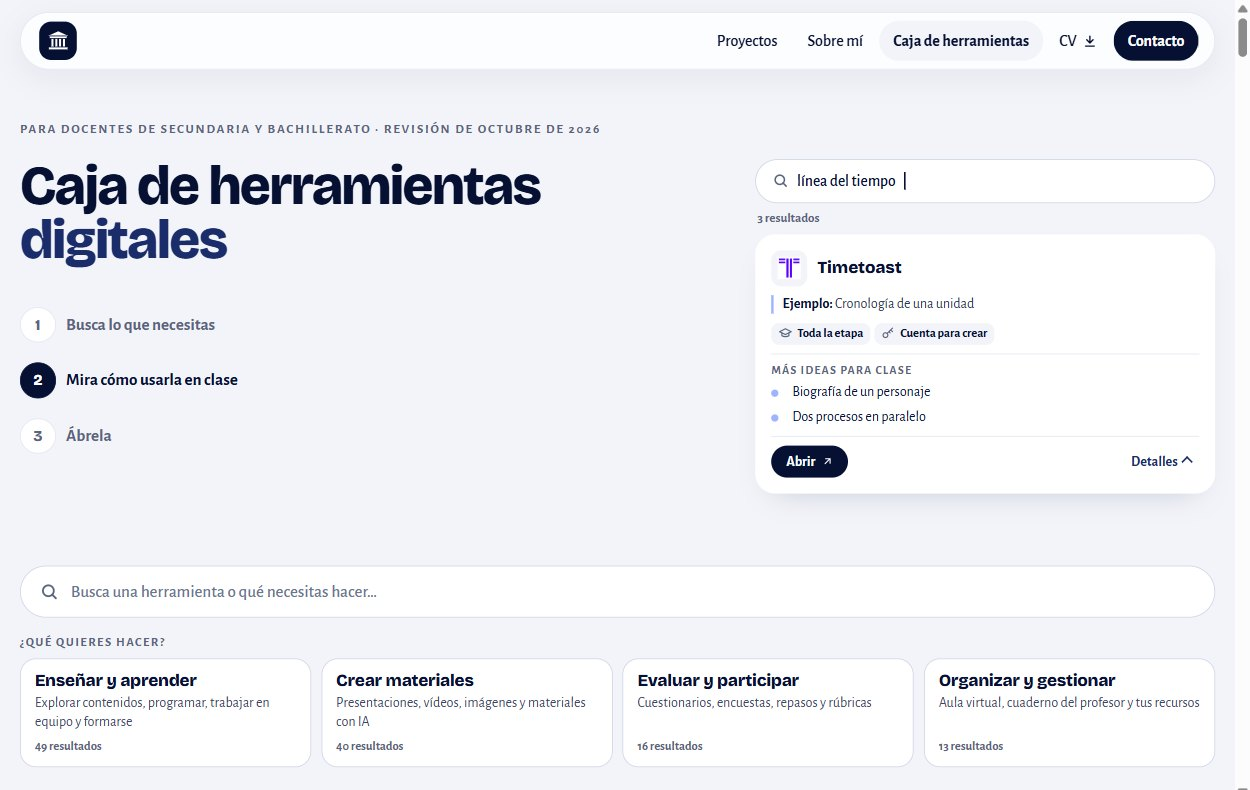
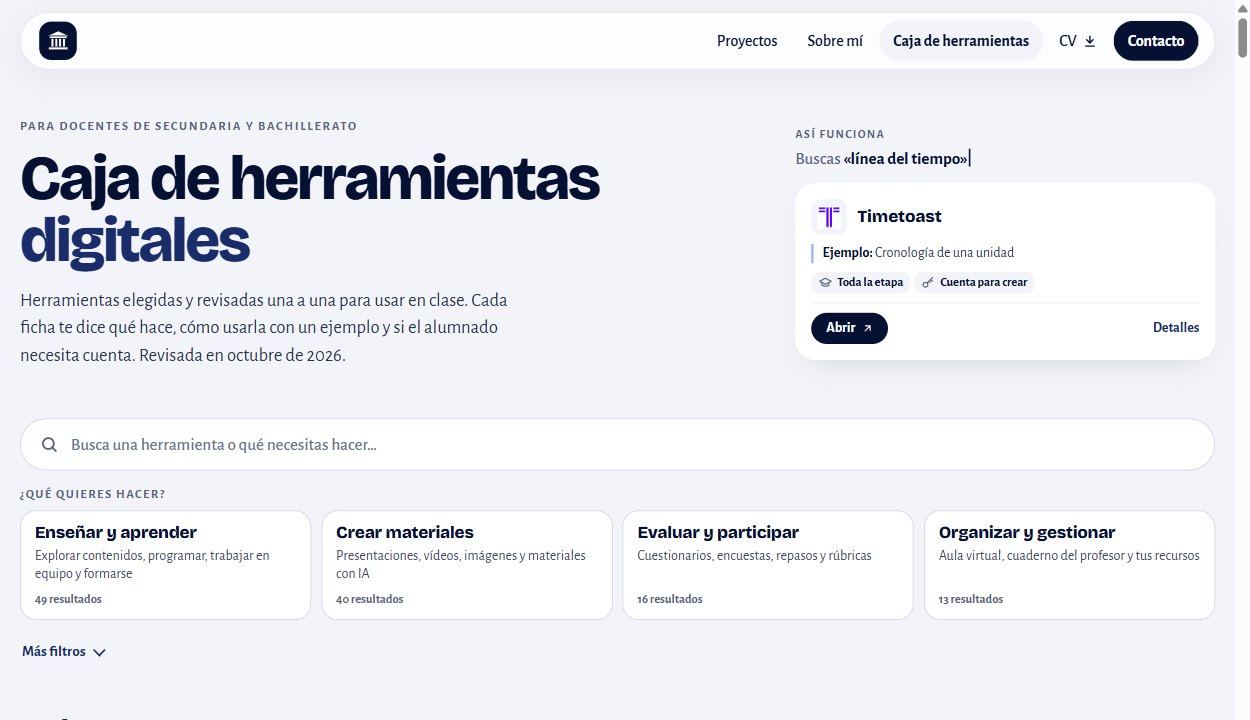
Caja de herramientas: hero rediseñado con jerarquía clara
- Título dominante, etiqueta corta y descripción breve visible.
- Ejemplo «Así funciona» simplificado: la búsqueda como texto (no imita el buscador real) y una ficha; sin pasos ni detalles.
- Columnas centradas entre sí y buscador real más cerca del hero.
- En móvil: título, descripción, ejemplo reducido y buscador.
- Captura de la portada actualizada en el Repositorio digital.

diff --git a/herramientas/index.html b/herramientas/index.html
@@ -112,30 +112,24 @@ footer a{font-weight:700}
 @media (max-width:780px){.bar nav a.nav-key{display:inline-flex}.bar nav{gap:4px}.bar nav a{padding:8px 12px}.bar nav a.cv{display:none}}
 @media (max-width:440px){.bar nav a{padding:8px 10px;font-size:15px}}
 /* cabecera breve */
-.head{margin-top:52px}
-.head h1{font:800 clamp(34px,4.4vw,56px)/1 var(--f-disp);letter-spacing:-.03em;margin-top:10px}
+/* cabecera: el título manda; a la derecha, un ejemplo de búsqueda (no es un buscador) */
+.head{margin-top:48px;display:grid;grid-template-columns:minmax(0,1fr) minmax(0,420px);gap:32px 64px;align-items:center}
+.head-t .lab{display:block;font-size:12.5px;line-height:1.5}
+.head h1{font:800 clamp(38px,5vw,64px)/.98 var(--f-disp);letter-spacing:-.035em;margin-top:12px}
 .head h1 span{color:var(--navy3)}
-.head{display:grid;grid-template-columns:minmax(0,1fr) minmax(0,460px);gap:28px 56px;align-items:start}
-/* la etiqueta va sola arriba; debajo, el título y la animación empiezan a la misma altura */
-.head-l{grid-column:1/-1;margin-bottom:-6px}
-.head-t h1{margin-top:0}
-/* pasos a la izquierda, bajo el título: se marcan al ritmo de la animación */
-.d-steps{list-style:none;padding:0;margin-top:30px;display:grid;gap:4px;max-width:360px;counter-reset:d}
-.d-steps li{counter-increment:d;display:grid;grid-template-columns:34px 1fr;gap:12px;align-items:center;font:700 17px/1.25 var(--f-body);color:var(--mut);padding:8px 0;transition:color .3s}
-.d-steps li::before{content:counter(d);width:34px;height:34px;border-radius:50%;display:grid;place-items:center;font:800 15px var(--f-disp);background:#fff;color:var(--mut);border:1px solid var(--line);transition:background .3s,color .3s,border-color .3s}
-.head[data-s="1"] .d-steps li:nth-child(1),.head[data-s="2"] .d-steps li:nth-child(2),.head[data-s="3"] .d-steps li:nth-child(3){color:var(--navy)}
-.head[data-s="1"] .d-steps li:nth-child(1)::before,.head[data-s="2"] .d-steps li:nth-child(2)::before,.head[data-s="3"] .d-steps li:nth-child(3)::before{background:var(--navy);border-color:var(--navy);color:#fff}
-/* demostración: sin marco, sobre el mismo fondo que el título */
+.head-p{font-size:clamp(16.5px,1.5vw,18.5px);line-height:1.5;color:#2A3352;margin-top:16px;max-width:52ch}
 .demo{position:relative}
-.d-search{display:flex;align-items:center;gap:8px;height:44px;padding:0 16px;background:#fff;border:1px solid #CDD5E5;border-radius:999px;font:500 15.5px var(--f-body);color:var(--txt)}
-.d-search svg{width:17px;height:17px;stroke:var(--mut);fill:none;stroke-width:2.2;stroke-linecap:round;flex:none}
-.d-q{white-space:nowrap;overflow:hidden}
-.d-caret{width:2px;height:18px;background:var(--navy);animation:blink 1s steps(1) infinite}
+.demo[hidden]{display:none}
+.d-top{display:flex;align-items:center;justify-content:space-between;gap:10px;margin-bottom:6px}
+.d-cap{font:700 12px var(--f-body);letter-spacing:.12em;text-transform:uppercase;color:var(--mut)}
+.d-ql{font:500 17px/1.3 var(--f-body);color:var(--mut);margin-bottom:12px;min-height:23px;white-space:nowrap;overflow:hidden}
+.d-ql b{color:var(--navy);font-weight:700}
+#d-q:not(:empty)::before{content:"«"}
+#d-q:not(:empty)::after{content:"»"}
+.d-caret{display:inline-block;width:2px;height:17px;background:var(--navy);margin-left:1px;vertical-align:-2px;animation:blink 1s steps(1) infinite}
 @keyframes blink{50%{opacity:0}}
-.d-row{display:flex;align-items:center;justify-content:space-between;gap:8px;margin:8px 2px}
-.d-n{font:700 13px var(--f-body);color:var(--mut);opacity:0;transition:opacity .3s}
-.d-card{background:#fff;border-radius:20px;padding:16px;display:grid;gap:9px;opacity:.35;filter:saturate(0);transform:translateY(6px);transition:opacity .45s,transform .45s,filter .45s;box-shadow:0 14px 30px -18px rgba(6,16,51,.22)}
-.head[data-s="2"] .d-n,.head[data-s="3"] .d-n,.head[data-s="2"] .d-card,.head[data-s="3"] .d-card{opacity:1;filter:none;transform:none}
+.d-card{background:#fff;border-radius:20px;padding:16px;display:grid;gap:9px;box-shadow:0 14px 30px -18px rgba(6,16,51,.22);opacity:.35;filter:saturate(0);transform:translateY(6px);transition:opacity .45s,transform .45s,filter .45s}
+.head[data-s="2"] .d-card,.head[data-s="3"] .d-card{opacity:1;filter:none;transform:none}
 .d-card .tool-h{grid-template-columns:36px minmax(0,1fr);gap:10px}
 .d-card .lg{width:36px;height:36px;border-radius:10px}
 .d-card .lg img{width:23px;height:23px}
@@ -144,31 +138,21 @@ footer a{font-weight:700}
 .d-card .ex b{color:var(--navy)}
 .d-card .facts{gap:4px}
 .d-card .fact{font-size:12.5px;padding:3px 7px}
-.d-card .more-b{display:none}
-.d-card.open .more-b{display:grid;animation:dIn .35s ease-out}
-@keyframes dIn{from{opacity:0;transform:translateY(-4px)}}
-.d-card .more-b li{font-size:14px}
 .d-foot{display:flex;align-items:center;justify-content:space-between;padding-top:9px;border-top:1px solid var(--line)}
 .d-open{display:inline-flex;align-items:center;gap:6px;font:700 14px var(--f-body);color:#fff;background:var(--navy);border-radius:999px;padding:7px 15px;transition:transform .3s,box-shadow .3s}
-.d-open svg,.d-det svg{width:12px;height:12px;stroke:currentColor;fill:none;stroke-width:2.2;stroke-linecap:round;stroke-linejoin:round}
-.d-det{display:inline-flex;align-items:center;gap:6px;font:700 14px var(--f-body);color:var(--navy3);padding:5px 8px;border-radius:999px;transition:background .3s,box-shadow .3s}
-.d-det::after{content:"";width:6px;height:6px;border-right:2px solid currentColor;border-bottom:2px solid currentColor;transform:rotate(45deg) translateY(-2px);transition:transform .25s}
-.d-card.press .d-det{background:var(--ice);box-shadow:0 0 0 4px rgba(159,179,255,.45)}
-.d-card.open .d-det::after{transform:rotate(-135deg) translateY(-1px)}
+.d-open svg{width:12px;height:12px;stroke:currentColor;fill:none;stroke-width:2.2;stroke-linecap:round;stroke-linejoin:round}
+.d-det{font:700 14px var(--f-body);color:var(--navy3)}
 .head[data-s="3"] .d-open{transform:scale(1.06);box-shadow:0 0 0 5px rgba(159,179,255,.55)}
-.d-pause{flex:none;width:32px;height:32px;border-radius:50%;border:1px solid var(--line);background:#fff;display:grid;place-items:center;cursor:pointer}
-.d-pause svg{width:11px;height:11px;fill:var(--navy)}
+.d-pause{flex:none;width:30px;height:30px;border-radius:50%;border:1px solid var(--line);background:#fff;display:grid;place-items:center;cursor:pointer}
+.d-pause svg{width:10px;height:10px;fill:var(--navy)}
 .d-pause[hidden]{display:none}
-@media (max-width:900px){.head{grid-template-columns:1fr;gap:20px}.demo{max-width:520px}
- .d-steps{grid-template-columns:repeat(3,minmax(0,1fr));max-width:520px;margin-top:20px;gap:8px}
- .d-steps li{grid-template-columns:1fr;gap:6px;font-size:13.5px;align-items:start;padding:0}
- .d-steps li::before{width:28px;height:28px;font-size:13px}}
-@media (max-width:560px){.d-card .ex{display:none}}
-@media (prefers-reduced-motion:reduce){.d-card,.d-n,.d-steps li,.d-steps li::before,.d-open,.d-det,.d-det::after{transition:none}.d-card.open .more-b{animation:none}.d-caret{animation:none}}
+@media (max-width:900px){.head{grid-template-columns:1fr;gap:28px;margin-top:36px}.demo{max-width:460px}}
+@media (max-width:560px){.d-card .ex,.d-foot{display:none}.d-card{padding:14px}.d-ql{font-size:16px;margin-bottom:10px}}
+@media (prefers-reduced-motion:reduce){.d-card,.d-open{transition:none}.d-caret{animation:none}}
 
 /* buscador: primer nivel = búsqueda + «¿Qué quieres hacer?» */
-.finder{margin-top:72px}
-@media (max-width:640px){.finder{margin-top:48px}}
+.finder{margin-top:48px}
+@media (max-width:640px){.finder{margin-top:32px}}
 .search{display:flex;align-items:center;gap:10px;background:#fff;border:1px solid #CDD5E5;border-radius:999px;padding:0 6px 0 18px;height:52px}
 .search:focus-within{border-color:var(--navy);box-shadow:0 0 0 3px rgba(159,179,255,.45)}
 .search>svg{width:20px;height:20px;stroke:var(--mut);fill:none;stroke-width:2.2;stroke-linecap:round;flex:none}
@@ -404,15 +388,14 @@ body.mini-on .top{transform:translateY(-140%)}
 
 <main>
  <section class="head" id="hero" data-s="1" aria-labelledby="ph1">
-  <span class="lab head-l">Para docentes de Secundaria y Bachillerato · Revisión de octubre de 2026</span>
   <div class="head-t">
+   <span class="lab">Para docentes de Secundaria y Bachillerato</span>
    <h1 id="ph1">Caja de herramientas <span>digitales</span></h1>
-   <p class="sr">Herramientas y recursos elegidos y comprobados. Busca lo que necesitas, mira cómo usarlo en clase con un ejemplo y ábrelo.</p>
-   <ol class="d-steps" aria-hidden="true"><li>Busca lo que necesitas</li><li>Mira cómo usarla en clase</li><li>Ábrela</li></ol>
+   <p class="head-p">Herramientas elegidas y revisadas una a una para usar en clase. Cada ficha te dice qué hace, cómo usarla con un ejemplo y si el alumnado necesita cuenta. Revisada en octubre de 2026.</p>
   </div>
-  <div class="demo" id="demo">
-   <div class="d-search" aria-hidden="true"><svg viewBox="0 0 24 24"><circle cx="11" cy="11" r="6.5"/><path d="m20 20-4.4-4.4"/></svg><span class="d-q" id="d-q"></span><span class="d-caret"></span></div>
-   <div class="d-row"><p class="d-n" id="d-n" aria-hidden="true"></p><button type="button" class="d-pause" id="d-pause" aria-label="Pausar la animación" hidden></button></div>
+  <div class="demo" id="demo" hidden>
+   <div class="d-top"><span class="d-cap" aria-hidden="true">Así funciona</span><button type="button" class="d-pause" id="d-pause" aria-label="Pausar la animación" hidden></button></div>
+   <p class="d-ql" aria-hidden="true">Buscas <b id="d-q"></b><span class="d-caret"></span></p>
    <div class="d-card" id="d-card" aria-hidden="true"></div>
   </div>
  </section>
@@ -721,41 +704,34 @@ $('changes').innerHTML=CHANGES.slice(0,-1).map(c=>{
 }).join('');
 $('chnew').innerHTML=`<div><span class="lab">Novedad</span><h3>${esc(last.n)}</h3><p>${esc(last.what)}</p></div><div class="alt"><b>Qué hacer</b><p>${esc(last.alt)}</p></div>`;
 
-// ---------- demostración del hero: búsquedas reales y la primera ficha que devuelve el propio buscador
+// ---------- ejemplo del hero: búsquedas reales y la primera ficha que devuelve el propio buscador
 (()=>{
- const H=$('hero'),D=$('demo'),Q=$('d-q'),N=$('d-n'),C=$('d-card'),B=$('d-pause');
- const scenes=['línea del tiempo','cuestionario','geometría','programar'].map(q=>{const r=TOOLS.filter(t=>t.s!=='recursos'&&match(t,query(q)));return r.length?{q,n:r.length,t:r[0]}:null}).filter(Boolean);
- if(!scenes.length){D.hidden=true;return;}
+ const H=$('hero'),D=$('demo'),Q=$('d-q'),C=$('d-card'),B=$('d-pause');
+ const scenes=['línea del tiempo','cuestionario','geometría','programar'].map(q=>{const r=TOOLS.filter(t=>t.s!=='recursos'&&match(t,query(q)));return r.length?{q,t:r[0]}:null}).filter(Boolean);
+ if(!scenes.length)return;
+ D.hidden=false;
  const draw=sc=>{const t=sc.t,aula=t.s==='aula',m=t.n.match(/^(.+?)\s*\((.+)\)$/);
   const facts=aula?fact(I.cap,t.c)+fact(I.key,t.cta,/^no necesita/i.test(t.cta)?'ok':''):fact(I.eur,t.coste,/gratu|incluido|sin coste/i.test(t.coste)?'ok':'');
-  C.className='d-card';
-  C.innerHTML=`<div class="tool-h"><span class="lg">${logo(t)}</span><h4>${esc(m?m[1]:t.n)}</h4></div><p class="ex"><b>Ejemplo:</b> ${esc(t.i[0])}</p><div class="facts">${facts}</div>
-   <div class="more-b"><div><h5>${aula?'Más ideas para clase':'Más ideas de uso'}</h5><ul>${t.i.slice(1).map(x=>`<li>${esc(x)}</li>`).join('')}</ul></div></div>
-   <div class="d-foot"><span class="d-open">Abrir ${I.ext}</span><span class="d-det">Detalles</span></div>`;};
- // se reserva la altura de la ficha más alta con los detalles abiertos, para que la página no salte
- const reserve=()=>{D.style.minHeight='';const keep=[H.dataset.s,C.className,C.innerHTML];let mx=0;
-  scenes.forEach(sc=>{draw(sc);C.className='d-card open';mx=Math.max(mx,D.offsetHeight);});
-  [H.dataset.s,C.className,C.innerHTML]=keep;D.style.minHeight=mx+'px';};
- const result=sc=>{N.textContent=`${sc.n} ${sc.n===1?'resultado':'resultados'}`;draw(sc);};
+  C.innerHTML=`<div class="tool-h"><span class="lg">${logo(t)}</span><h4>${esc(m?m[1]:t.n)}</h4></div><p class="ex"><b>Ejemplo:</b> ${esc(t.i[0])}</p><div class="facts">${facts}</div><div class="d-foot"><span class="d-open">Abrir ${I.ext}</span><span class="d-det">Detalles</span></div>`;};
+ // se reserva la altura de la ficha más alta, para que la página no salte al cambiar de ejemplo
+ const reserve=()=>{C.style.minHeight='';const keep=C.innerHTML;let mx=0;scenes.forEach(sc=>{draw(sc);mx=Math.max(mx,C.offsetHeight);});C.innerHTML=keep;C.style.minHeight=mx+'px';};
  const still=matchMedia('(prefers-reduced-motion: reduce)');
  let i=0,timers=[],paused=false,seen=true;
  const clear=()=>{timers.forEach(clearTimeout);timers=[];};
  const at=(ms,f)=>timers.push(setTimeout(f,ms));
- const play=()=>{clear();const sc=scenes[i%scenes.length];H.dataset.s='1';Q.textContent='';C.classList.remove('open');
+ const play=()=>{clear();const sc=scenes[i%scenes.length];H.dataset.s='1';Q.textContent='';
   [...sc.q].forEach((ch,k)=>at(400+k*75,()=>{Q.textContent+=ch}));
-  const t0=400+sc.q.length*75+350;
-  at(t0,()=>{result(sc);H.dataset.s='2'});
-  at(t0+1500,()=>{C.classList.add('press')});
-  at(t0+1800,()=>{C.classList.remove('press');C.classList.add('open')});
-  at(t0+4600,()=>{H.dataset.s='3'});
-  at(t0+6200,()=>{i++;if(!paused&&seen)play();});};
- const showStill=()=>{clear();const sc=scenes[0];result(sc);Q.textContent=sc.q;C.className='d-card open';H.dataset.s='2';};
+  const t0=400+sc.q.length*75+300;
+  at(t0,()=>{draw(sc);H.dataset.s='2'});
+  at(t0+2600,()=>{H.dataset.s='3'});
+  at(t0+4200,()=>{i++;if(!paused&&seen)play();});};
+ const showStill=()=>{clear();const sc=scenes[0];draw(sc);Q.textContent=sc.q;H.dataset.s='2';};
  const icon=p=>p?'<svg viewBox="0 0 24 24" aria-hidden="true"><path d="M7 5v14l12-7z"/></svg>':'<svg viewBox="0 0 24 24" aria-hidden="true"><rect x="6" y="5" width="4" height="14" rx="1"/><rect x="14" y="5" width="4" height="14" rx="1"/></svg>';
  const setPause=p=>{paused=p;B.innerHTML=icon(p);B.setAttribute('aria-label',p?'Reanudar la animación':'Pausar la animación');if(p)clear();else play();};
  const start=()=>{if(still.matches){B.hidden=true;showStill();}else{B.hidden=false;paused=false;B.innerHTML=icon(false);play();}};
  B.addEventListener('click',()=>setPause(!paused));
  still.addEventListener('change',start);
- reserve();draw(scenes[0]);
+ draw(scenes[0]);reserve();
  let rz;addEventListener('resize',()=>{clearTimeout(rz);rz=setTimeout(reserve,200)});
  if(document.fonts)document.fonts.ready.then(reserve);
  // fuera de la pantalla o con la pestaña oculta, se detiene

diff --git a/proyectos/repositorio-digital/index.html b/proyectos/repositorio-digital/index.html
@@ -72,7 +72,7 @@
 <figure><a href="/assets/proyectos/repositorio-digital/inicio-2024.jpg" target="_blank" rel="noopener" aria-label="Ver la imagen a tamaño completo: Portada del repositorio en Google Sites: menú por etapas (Infantil, Primaria, Secundaria y Bachillerato, Apoyo docente, Recursos) y los objetivos del repositorio"><img src="/assets/proyectos/repositorio-digital/inicio-2024.jpg" alt="Portada del repositorio en Google Sites: menú por etapas (Infantil, Primaria, Secundaria y Bachillerato, Apoyo docente, Recursos) y los objetivos del repositorio" loading="lazy" decoding="async" width="1200" height="750"></a><figcaption>La portada, con el menú por etapas.</figcaption></figure></div>
 <div class="ver ver-new"><span class="ver-y">2026</span><h3>La caja de herramientas</h3>
 <ul class="ver-l"><li>Web propia, pensada para Secundaria.</li><li>Herramientas digitales para el aula y el docente. Recursos disponibles.</li><li>Se busca por lo que necesitas hacer: enseñar, crear materiales, evaluar u organizar.</li><li>Filtros secundarios por tipo de recurso y por materia.</li><li>Revisada una a una en octubre de 2026.</li><li>Lo que ha cerrado, su alternativa y la IA con cuenta de centro.</li></ul>
-<figure><a href="/assets/proyectos/repositorio-digital/caja-2026.jpg?v=6" target="_blank" rel="noopener" aria-label="Ver la imagen a tamaño completo: Portada de la Caja de herramientas digitales: a la izquierda el título y tres pasos (busca, mira cómo usarla en clase, ábrela); a la derecha una animación con una búsqueda («línea del tiempo») y la ficha de Timetoast con los detalles abiertos; debajo, el buscador, la pregunta «¿Qué quieres hacer?» con cuatro objetivos y «Más filtros»"><img src="/assets/proyectos/repositorio-digital/caja-2026.jpg?v=6" alt="Portada de la Caja de herramientas digitales: a la izquierda el título y tres pasos (busca, mira cómo usarla en clase, ábrela); a la derecha una animación con una búsqueda («línea del tiempo») y la ficha de Timetoast con los detalles abiertos; debajo, el buscador, la pregunta «¿Qué quieres hacer?» con cuatro objetivos y «Más filtros»" loading="lazy" decoding="async" width="1250" height="790"></a><figcaption>La portada: animación de cómo se usa, buscador y «¿Qué quieres hacer?».</figcaption></figure></div>
+<figure><a href="/assets/proyectos/repositorio-digital/caja-2026.jpg?v=7" target="_blank" rel="noopener" aria-label="Ver la imagen a tamaño completo: Portada de la Caja de herramientas digitales: a la izquierda el título y una descripción breve; a la derecha, «Así funciona», un ejemplo de búsqueda («línea del tiempo») con la ficha de Timetoast que devuelve; debajo, el buscador, la pregunta «¿Qué quieres hacer?» con cuatro objetivos y «Más filtros»"><img src="/assets/proyectos/repositorio-digital/caja-2026.jpg?v=7" alt="Portada de la Caja de herramientas digitales: a la izquierda el título y una descripción breve; a la derecha, «Así funciona», un ejemplo de búsqueda («línea del tiempo») con la ficha de Timetoast que devuelve; debajo, el buscador, la pregunta «¿Qué quieres hacer?» con cuatro objetivos y «Más filtros»" loading="lazy" decoding="async" width="1250" height="720"></a><figcaption>La portada: título, ejemplo de búsqueda, buscador y «¿Qué quieres hacer?».</figcaption></figure></div>
 </div>
 <div class="ficha-new">
 <div><span class="ver-y">2026</span><h3>La misma ficha, dos años después</h3><p>StopMotion sigue, pero la ficha cambia: dice qué hace el alumnado, da ideas para clase y aclara nivel, dispositivos y si hace falta cuenta.</p></div>

diff --git a/_build/data.py b/_build/data.py
@@ -351,7 +351,7 @@ FIG:/assets/proyectos/repositorio-digital/ficha-2024.jpg?v=2|Ficha de StopMotion
 FIG:/assets/proyectos/repositorio-digital/inicio-2024.jpg|Portada del repositorio en Google Sites: menú por etapas (Infantil, Primaria, Secundaria y Bachillerato, Apoyo docente, Recursos) y los objetivos del repositorio|La portada, con el menú por etapas.</div>
 <div class="ver ver-new"><span class="ver-y">2026</span><h3>La caja de herramientas</h3>
 <ul class="ver-l"><li>Web propia, pensada para Secundaria.</li><li>Herramientas digitales para el aula y el docente. Recursos disponibles.</li><li>Se busca por lo que necesitas hacer: enseñar, crear materiales, evaluar u organizar.</li><li>Filtros secundarios por tipo de recurso y por materia.</li><li>Revisada una a una en octubre de 2026.</li><li>Lo que ha cerrado, su alternativa y la IA con cuenta de centro.</li></ul>
-FIG:/assets/proyectos/repositorio-digital/caja-2026.jpg?v=6|Portada de la Caja de herramientas digitales: a la izquierda el título y tres pasos (busca, mira cómo usarla en clase, ábrela); a la derecha una animación con una búsqueda («línea del tiempo») y la ficha de Timetoast con los detalles abiertos; debajo, el buscador, la pregunta «¿Qué quieres hacer?» con cuatro objetivos y «Más filtros»|La portada: animación de cómo se usa, buscador y «¿Qué quieres hacer?».</div>
+FIG:/assets/proyectos/repositorio-digital/caja-2026.jpg?v=7|Portada de la Caja de herramientas digitales: a la izquierda el título y una descripción breve; a la derecha, «Así funciona», un ejemplo de búsqueda («línea del tiempo») con la ficha de Timetoast que devuelve; debajo, el buscador, la pregunta «¿Qué quieres hacer?» con cuatro objetivos y «Más filtros»|La portada: título, ejemplo de búsqueda, buscador y «¿Qué quieres hacer?».</div>
 </div>
 <div class="ficha-new">
 <div><span class="ver-y">2026</span><h3>La misma ficha, dos años después</h3><p>StopMotion sigue, pero la ficha cambia: dice qué hace el alumnado, da ideas para clase y aclara nivel, dispositivos y si hace falta cuenta.</p></div>

diff --git a/CLAUDE.md b/CLAUDE.md
@@ -21,9 +21,10 @@ Cada push a `main` se publica solo en 1-2 minutos. El Consejo de Clío vive en o
   al bajar, barra fina fija con el mismo aspecto que la barra del menú pegada (logo, buscador + «Filtros») (aparece al pasar el buscador). Si `tools.js` falla, aviso con reintento.
   Antes: (2) «¿Qué quieres hacer?» = `TASKS`, cuatro objetivos
   (Enseñar y aprender, Crear materiales, Evaluar y participar, Organizar y gestionar); cada herramienta cae en uno solo según
-  su categoría (`s:cat`); siempre visibles, desactivados si no tienen resultados; (3) recuento + filtros activos (solo cuando hay alguno; sin filtros no se muestra el total). Hero sin texto: título + tres pasos a la izquierda y animación
-  `#demo` (sin marco) que escribe búsquedas reales, muestra la primera ficha que devuelve el buscador y abre sus Detalles (con pausa; quieta con movimiento
-  reducido; se detiene fuera de pantalla). Espacios: 80px entre categorías, 120px entre secciones. Fichas compactas:
+  su categoría (`s:cat`); siempre visibles, desactivados si no tienen resultados; (3) recuento + filtros activos (solo cuando hay alguno; sin filtros no se muestra el total). Hero: a la izquierda etiqueta corta, título dominante y
+  descripción breve (`.head-p`); a la derecha `#demo` «Así funciona»: «Buscas «…»» como texto (no es un buscador, para no
+  duplicar el real) y la primera ficha que devuelve el buscador (sin pasos ni detalles; con pausa; quieta con movimiento
+  reducido; se detiene fuera de pantalla; oculta sin JavaScript). En móvil: título, descripción, ejemplo reducido, buscador. Espacios: 80px entre categorías, 120px entre secciones. Fichas compactas:
   frase de uso + primer ejemplo (`i[0]`) + etiquetas; el resto va en «Detalles». Las etiquetas salen solo de los datos.
   Lo que ha cerrado o cambiado sale de `CHANGES` en `tools.js` (el último elemento es la novedad destacada);
   el balance (siguen, nuevas, otro nombre, cerradas) se calcula con el campo `st`.
